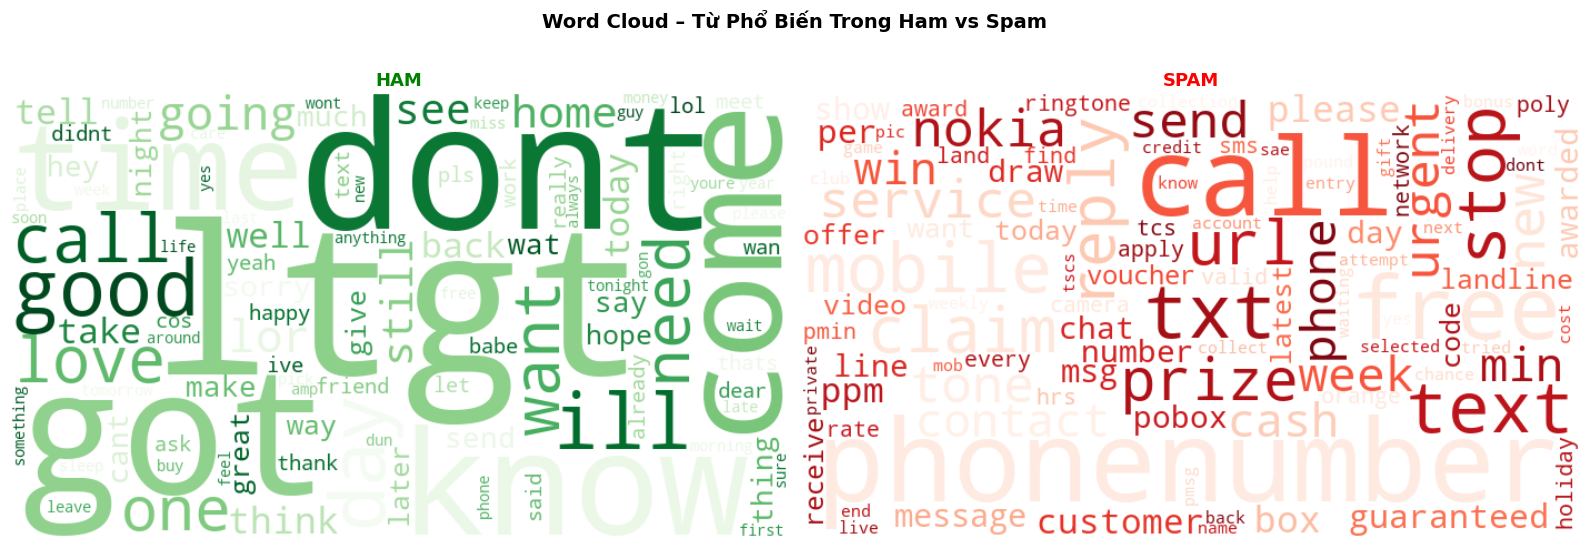
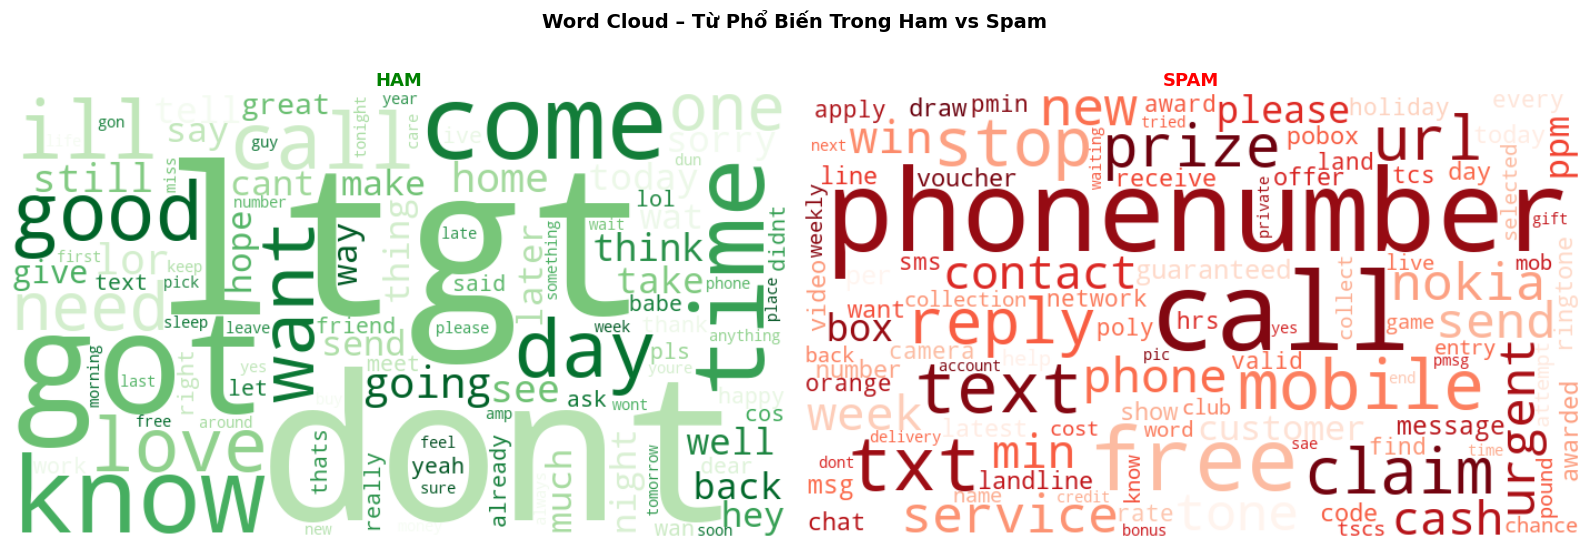
đếm tần suất từ spam

diff --git a/README.md b/README.md
@@ -1,2 +1,2 @@
 # SMS_Spam_Project
-pip install pandas matplotlib nltk scikit-learn wordcloud seaborn
+pip install pandas matplotlib nltk scikit-learn wordcloud seaborn streamlit